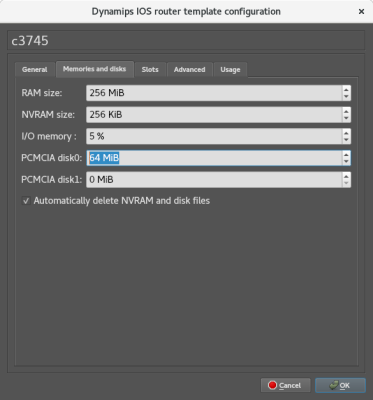
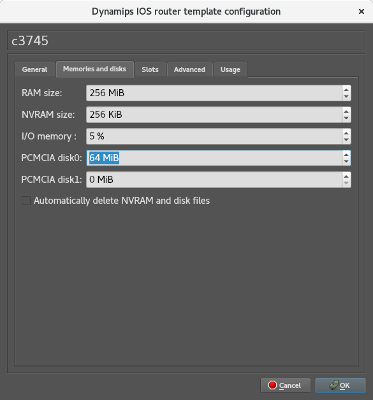
Lab update stopping point 211105.

diff --git a/labs/README.md b/labs/README.md
@@ -2,7 +2,7 @@
 
 ![All Devices Started](../img/adventures-automation.gif)
 
-Before starting the labs, let's run the commands we will use in the labs in a router console session. This will give you an idea of the output and results expected from each lab.
+Before starting the labs, let's run the commands we will use in the labs in a console session, as we would do with a real router. This will give you an idea of the output and results expected from each lab.
 
 First, ensure you have installed GNS3 per the instructions in the **"Adventures in Automation"** tutorial (this repo's main README.md file) and start it up. As we stated at the end, we recommend you enter ```gns3_run``` from a Terminal to start GNS3.
 
@@ -29,7 +29,7 @@ sudo mkdir --parents --verbose /var/lib/tftpboot
 sudo chmod 777 --verbose /var/lib/tftpboot
 ```
 
-For many reasons, TFTP is very limited. TFTP can only copy to an ***existing*** file; it cannot ***create*** a new copy! Therefore, create a shell file for TFTP to copy data into, and give the shell the necessary permissions to accept the data:
+For many reasons, TFTP is very limited. TFTP can only copy to an ***existing*** file; it cannot ***create*** a new copy. Therefore, create a shell file for TFTP to copy data into, and give the shell the necessary permissions to accept the data:
 
 ```
 sudo touch /var/lib/tftpboot/startup-config.bak
@@ -52,21 +52,40 @@ If the console port number is difficult to see, you can get the information by e
 
 ![Node Information](../img/a36.png)
 
-Connect to the device using Telnet. In our case, the console port number is ```5001```. Remember, do not add a colon after the IP address; just use a space:
+Connect to the device using Telnet. In our case, the console port number is ```5001```:
 
 ```
 telnet 192.168.1.1 5001
 ```
 
-If everything was configured correctly, you will see messages from the boot sequence of the device. For us, the most important part of the output is this line:
+Not to be overly dramatic, but after you input that command, ***STOP!*** You may scroll, but do not press <kbd>Enter</kbd> or input any more commands yet.
+
+If everything was configured correctly, you will see messages from the boot sequence of the device. For us, the most important message is:
 
 ```
 Press RETURN to get started!
 ```
 
-If the device was reloaded correctly, you should see this message and no prompt before or after it (e.g., ```R1>```, ```R1#```, etc.) until you press <kbd>Enter</kbd>. If you see a prompt, that means that the device was not properly reloaded, and you may be using someone else's virtual teletype (VTY) session. This is dangerous for many reasons (e.g., race condition, eavesdropping, etc.), so press <kbd>Ctrl</kbd>+<kbd>]</kbd> 
+If the device was reloaded correctly, you should see this line at the end of the boot sequence of the device (don't worry if some status messages appear afterwards):
 
-Press <kbd>Enter</kbd> now. If you see the following text...
+```
+SETUP: new interface FastEthernet0/0 placed in "shutdown" state
+SETUP: new interface FastEthernet0/1 placed in "shutdown" state
+
+Press RETURN to get started!
+
+sslinit fn
+
+*Mar  1 00:00:03.871: %LINEPROTO-5-UPDOWN: Line protocol on Interface VoIP-Null0, changed state to up
+*Mar  1 00:00:03.927: %SYS-5-CONFIG_I: Configured from memory by console
+*Mar  1 00:00:04.087: %SYS-5-RESTART: System restarted --
+```
+
+However, you should see no prompts (e.g., ```R1>```, ```R1#```, etc.). If you see any prompts, especially a prompt followed by a command (e.g., "```R1#configure terminal```", etc.), that means that the device was not properly reloaded, and you may be using someone else's virtual teletype (VTY) session. This is dangerous for many reasons, since you may be eavesdropping on another user's session or creating a race condition by simultaneously entering commands at the same time as another user. Unfortunately, entering the ```reload``` command in GNS3 will cause the console terminal to "hang", so if you do see a prompt, exit Telnet by pressing <kbd>Ctrl</kbd>+<kbd>]</kbd>, and inputting <kbd>q</kbd>. Once you have exited Telnet, go to the GNS3 GUI and reload the device:
+
+![Reload the Device](../img/b01.png)
+
+Otherwise, if you do not see a prompt, press <kbd>Enter</kbd> now. If you see the following text...
 
 ```
 User Access Verification
@@ -74,9 +93,59 @@ User Access Verification
 Password: 
 ```
 
-...it means that the device:
+...it means that the device has already been configured by someone else. Unfortunately, there is no easy way to reset the device in GNS3; you will have to delete the device in the GNS3 workspace, and replace it with a new device.
 
-1. Has not been properly reloaded -
-2. Has already been configured
+***If this is the first time you are using GNS3, other than in the "Adventures in Automation" tutorial, you should not run into an improperly reloaded device, an open virtual teletype session, or a pre-configured device. We only cover these potentially dangerous situations to allow you to recognize them in real life, when configuring an actual device for Layer 3 communications.***
 
-In both cases, 
+Otherwise, if you press <kbd>Enter</kbd>, and you are greeted with a simple ```R1#```, you are good to go. You are in **Privileged EXEC Mode**, the default startup mode for most Cisco devices:
+
+```
+R1#
+```
+
+Some devices may display an ```R1>``` prompt instead. This means you are in **User EXEC Mode**, an interface that allows limited configuration and interaction with the device. Enter the following command to reach **Privileged EXEC Mode**:
+
+```
+enable
+```
+
+If you are prompted for a password, this means that the device has already been configured. Unfortunately, as we stated earlier, you will have to delete the device in the GNS3 workspace, and replace it with a new device.
+
+However, if all is well, the first thing we want to do is to format the device's built-in CompactFlash (CF) memory card. If you scroll through the startup output, you may see the following status message:
+
+```
+*Mar  1 00:00:04.135: %PCMCIAFS-5-DIBERR: PCMCIA disk 0 is formatted from a different router or PC. A format in this router is required before an image can be booted from this device
+```
+
+The Cisco 3745's PCMCIA disk 0, known as ```flash:```, is used to store the system image, configuration files, and more. While you can take a chance and hope the memory card works this device, it is better to format it before configuring the device:
+
+```
+R1#format flash:
+```
+
+You will be prompted twice to confirm. Press <kbd>Enter</kbd> each time:
+
+```
+Format operation may take a while. Continue? [confirm]
+Format operation will destroy all data in "flash:".  Continue? [confirm]
+```
+
+If the device's memories and disks tab was configured correctly in "Adventures in Automation", you should see the following output:
+
+```
+Format: Drive communication & 1st Sector Write OK...
+Writing Monlib sectors.
+.........................................................................................................................
+Monlib write complete 
+..
+Format: All system sectors written. OK...
+
+Format: Total sectors in formatted partition: 130911
+Format: Total bytes in formatted partition: 67026432
+Format: Operation completed successfully.
+
+Format of flash complete
+R1#
+```
+
+Next, 

diff --git a/README.md b/README.md
@@ -467,7 +467,7 @@ Click on **Edit** to increase the device's flash memory from 0 to 64 MiB:
 
 ![Preferences](img/a23.png)
 
-In the **Dynamips IOS router template configuration** pop-up dialog, select the **Memories and disks** tab. Set the PCMCIA disk0 to 64 MiB and click **OK**:
+In the **Dynamips IOS router template configuration** pop-up dialog, select the **Memories and disks** tab. Set the PCMCIA disk0 to 64 MiB. While you are here, make sure **Automatically delete NVRAM and disk files** is unselected; otherwise, you will have to reformat the flash memory each time you reload the device. When you are done, click **OK** to continue:
 
 ![Dynamips IOS router template configuration](img/a24.png)
 
@@ -613,7 +613,7 @@ No files on device
 R1#
 ```
 
-Now, press <kbd>Ctrl</kbd>+<kbd>]</kbd> to leave R1 and input "q" to exit Telnet. Go back to the GNS3 GUI, click the red **Stop** icon in the GNS3 Toolbar above the Workspace. When asked, "Are you sure you want to stop all devices?", click Yes::
+Now, press <kbd>Ctrl</kbd>+<kbd>]</kbd> to leave R1 and input <kbd>q</kbd> to exit Telnet. Go back to the GNS3 GUI, click the red **Stop** icon in the GNS3 Toolbar above the Workspace. When asked, "Are you sure you want to stop all devices?", click Yes::
 
 >Do not click on **Reload**! **Reload** will load the default settings, erasing any changes you have made. You will learn how to save configurations later.
 
